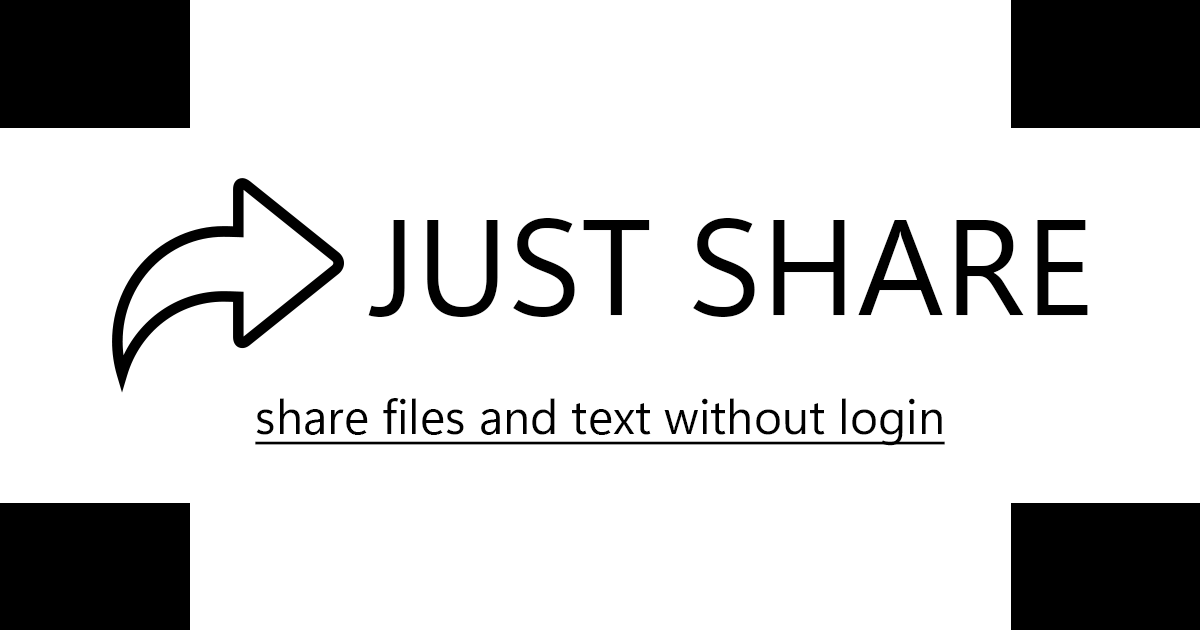
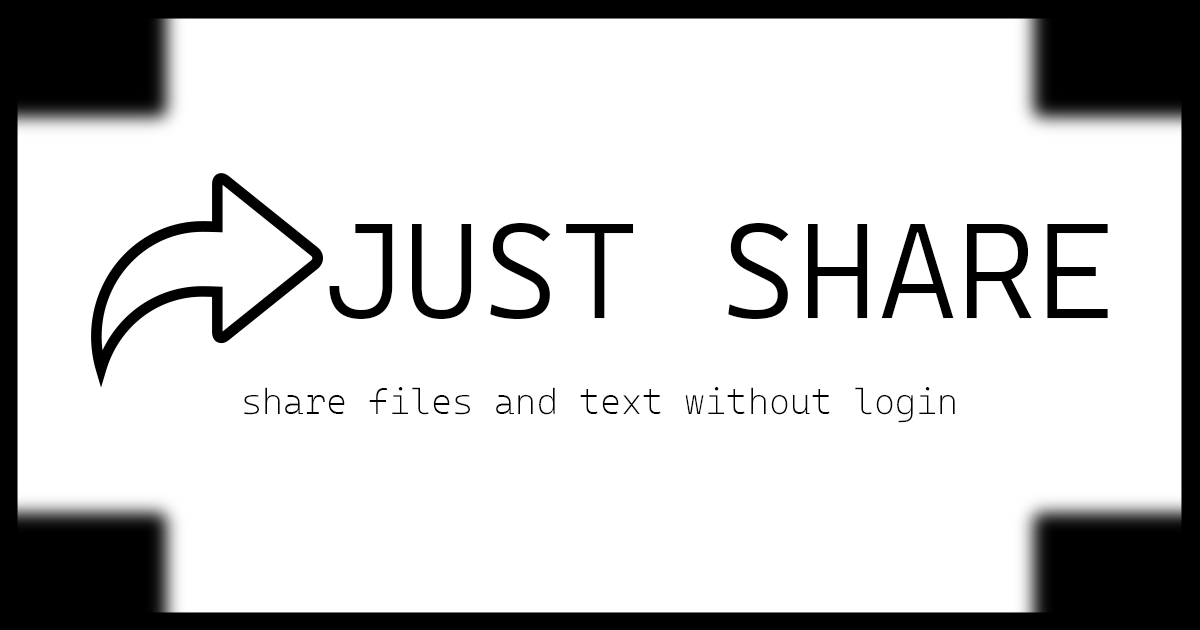
Update og:image and miscellaneous web fixes

diff --git a/templates/home.html b/templates/home.html
@@ -11,7 +11,7 @@
     <!-- Open Graph Meta Tags -->
     <meta property="og:title" content="Just Share">
     <meta property="og:description" content="Share text and files instantly without logins or pop-ups.">
-    <meta property="og:image" content="https://i.imgur.com/meIdyJx.png">
+    <meta property="og:image" content="https://i.imgur.com/zzOieGj.png">
     <meta property="og:image:width" content="1200">
     <meta property="og:image:height" content="630">      
     <meta property="og:url" content="https://justshare.cloud/">
@@ -25,12 +25,12 @@
         "name": "Just Share",
         "url": "https://justshare.cloud/",
         "description": "Share files and text instantly and securely without logins or pop-ups. Experience the easiest way to collaborate online with our hassle-free sharing website.",
-        "image": "https://i.imgur.com/meIdyJx.png"
+        "image": "https://i.imgur.com/zzOieGj.png"
     }
     </script>
     
     <!-- CSS -->
-    <link rel="stylesheet" href="{{ url_for('static', filename='css/style-home.css') }}">
+    <link rel="stylesheet" href="{{ url_for('static', filename='css/style.css') }}">
 </head>
 <body>
   <header>
@@ -47,17 +47,25 @@
     </nav>
   </div>
   </header>
-  <div class="a-container">
-    <div class="a-container-text">
-        <h1>Share text & links</h1>
-        <p>Data is only visible for 24 hours. If any server-related maintenance happens, the data will be deleted.</p>
-        <button class="send-text" onclick="window.location.href='/text'">SHARE TEXT</button>
+  <div class="content-s-r bluer">
+    <div class="content-r">
+      <div class="console">
+      <div class="label">Share text & links<br>
+        <div class="sub-label">Data is only visible for 24 hours. If any server-related maintenance happens, the data will be deleted.<br>
+        </div>
+      </div>
+        <button class="home-button" onclick="window.location.href='/text'">SHARE TEXT</button>
+      </div>
+  </div>
+  <div class="content-s">
+    <div class="console">
+    <div class="label">Share files<br>
+      <div class="sub-label">You can send files up to 10MB. This limit is temporary; files are only visible for 3 hours.<br>
+      </div>
     </div>
-    <div class="a-container-file">
-        <h1>Share files</h1>
-        <p>You can send files up to 10MB. This limit is temporary; files are only visible for 3 hours.</p>
-        <button class="send-text" onclick="window.location.href='/files'">SHARE FILES</button>
+        <button class="home-button" onclick="window.location.href='/files'">SHARE FILES</button>
     </div>  
+  </div>  
 </div>
      <footer id="footer">
       <div class="footer-content">

diff --git a/templates/index.html b/templates/index.html
@@ -3,7 +3,7 @@
 <head>
     <meta charset="UTF-8">
     <meta name="viewport" content="width=device-width">
-    <title>Just Share</title>
+    <title>Just Share text</title>
     <link rel="icon" href="{{ url_for('static', filename='assets/favicon.ico') }}" type="image/x-icon" sizes="16x16 24x24 32x32 48x48 64x64 72x72 80x80 96x96 128x128 256x256">
     <meta name="description" content="Share files and text instantly and securely without logins or pop-ups. Experience the easiest way to collaborate online with our hassle-free sharing website. Try it now!">
     <meta name="keywords" content="file sharing, text sharing, instant file sharing, justshare, just share, no login file sharing, no login text sharing, no login link sharing, hassle-free collaboration, online collaboration, share files online, share text online">
@@ -11,7 +11,7 @@
     <!-- Open Graph Meta Tags -->
     <meta property="og:title" content="Just Share text">
     <meta property="og:description" content="Share text and files instantly without logins or pop-ups.">
-    <meta property="og:image" content="https://i.imgur.com/meIdyJx.png">
+    <meta property="og:image" content="https://i.imgur.com/zzOieGj.png">
     <meta property="og:image:width" content="1200">
     <meta property="og:image:height" content="630">    
     <meta property="og:url" content="https://justshare.cloud/text">
@@ -25,7 +25,7 @@
         "name": "Just Share text",
         "url": "https://justshare.cloud/text",
         "description": "Share files and text instantly and securely without logins or pop-ups. Experience the easiest way to collaborate online with our hassle-free sharing website.",
-        "image": "https://i.imgur.com/meIdyJx.png"
+        "image": "https://i.imgur.com/zzOieGj.png"
     }
     </script>
     

diff --git a/static/css/style.css b/static/css/style.css
@@ -367,7 +367,17 @@ body::-webkit-scrollbar {
   left:85%;
 }
 
-
+.sub-label{
+  color: #ffffff;
+  font-weight: normal;
+  font-size: 20px;
+  line-height: 1.5;
+  text-align: center;
+  margin-top: 20px;
+  max-width: 350px;
+  margin-left: auto;
+  margin-right: auto;
+}
 
 .user-info {
   flex: 1;
@@ -542,7 +552,7 @@ button.close-1:hover {
   margin-bottom: 5px;
   font-weight: bold;
 }
-
+.home-button,
 .send-button {
   appearance: button;
   background-color: #ffffff;
@@ -570,20 +580,26 @@ button.close-1:hover {
   white-space: nowrap;
 }
 
+.home-button {
+  margin-top: 60px;
+}
+
+.home-button:focus,
 .send-button:focus {
   outline: none;
   text-decoration: none;
 }
 
+.home-button:hover,
 .send-button:hover {
   text-decoration: none;
 }
-
+.home-button:active,
 .send-button:active {
   box-shadow: rgba(255, 255, 255, 0.125) 0 3px 5px inset;
   outline: 0;
 }
-
+.home-button:not([disabled]):active,
 .send-button:not([disabled]):active {
   box-shadow: #000000 2px 2px 0 0, #ffffff 2px 2px 0 1px;
   transform: translate(2px, 2px);
@@ -943,6 +959,10 @@ footer {
 
     footer {
       bottom: -131px;
+    }
+
+    .title{
+      margin-top: 40px;
     }
 
 }

diff --git a/templates/index-files.html b/templates/index-files.html
@@ -11,7 +11,7 @@
     <!-- Open Graph Meta Tags -->
     <meta property="og:title" content="Just Share files">
     <meta property="og:description" content="Share text and files instantly without logins or pop-ups.">
-    <meta property="og:image" content="https://i.imgur.com/meIdyJx.png">
+    <meta property="og:image" content="https://i.imgur.com/zzOieGj.png">
     <meta property="og:image:width" content="1200">
     <meta property="og:image:height" content="630">      
     <meta property="og:url" content="https://justshare.cloud/files">
@@ -25,7 +25,7 @@
         "name": "Just Share files",
         "url": "https://justshare.cloud/files",
         "description": "Share files and text instantly and securely without logins or pop-ups. Experience the easiest way to collaborate online with our hassle-free sharing website.",
-        "image": "https://i.imgur.com/meIdyJx.png"
+        "image": "https://i.imgur.com/zzOieGj.png"
     }
     </script>
     

diff --git a/README.md b/README.md
@@ -2,7 +2,7 @@
 
 This web app allows you to share messages & files without creating account or any unwanted steps. You can access the application at https://justshare.cloud.
 
-<img alt="Just-Share" src="https://raw.githubusercontent.com/dhanushl0l/just-share/bf7197978b707159098aa587820e81c75ccf2252/static/assets/og-image-git.svg">
+<img alt="Just-Share" src="https://i.imgur.com/JSlQHfj.png">
 
 ## Features
 
